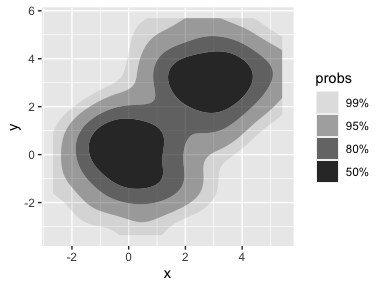
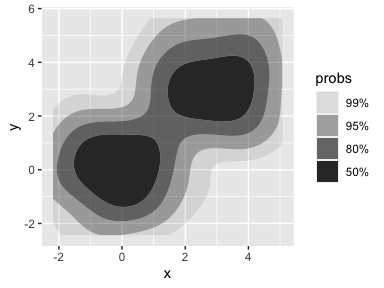
added badge to readme

diff --git a/README.md b/README.md
@@ -3,6 +3,11 @@
 
 # densityarea
 
+<!-- badges: start -->
+
+[![R-CMD-check](https://github.com/JoFrhwld/densityarea/actions/workflows/R-CMD-check.yaml/badge.svg)](https://github.com/JoFrhwld/densityarea/actions/workflows/R-CMD-check.yaml)
+<!-- badges: end -->
+
 The package `{ggdensity}`[^1] allows for plotting interpretable
 bivariate densities by using highest density ranges (HDRs). For example:
 
@@ -11,6 +16,7 @@ library(tibble)
 library(ggplot2)
 library(ggdensity)
 
+set.seed(10)
 df <- tibble(
   x = c(rnorm(100), rnorm(100, mean = 3)),
   y = c(rnorm(100), rnorm(100, mean = 3))
